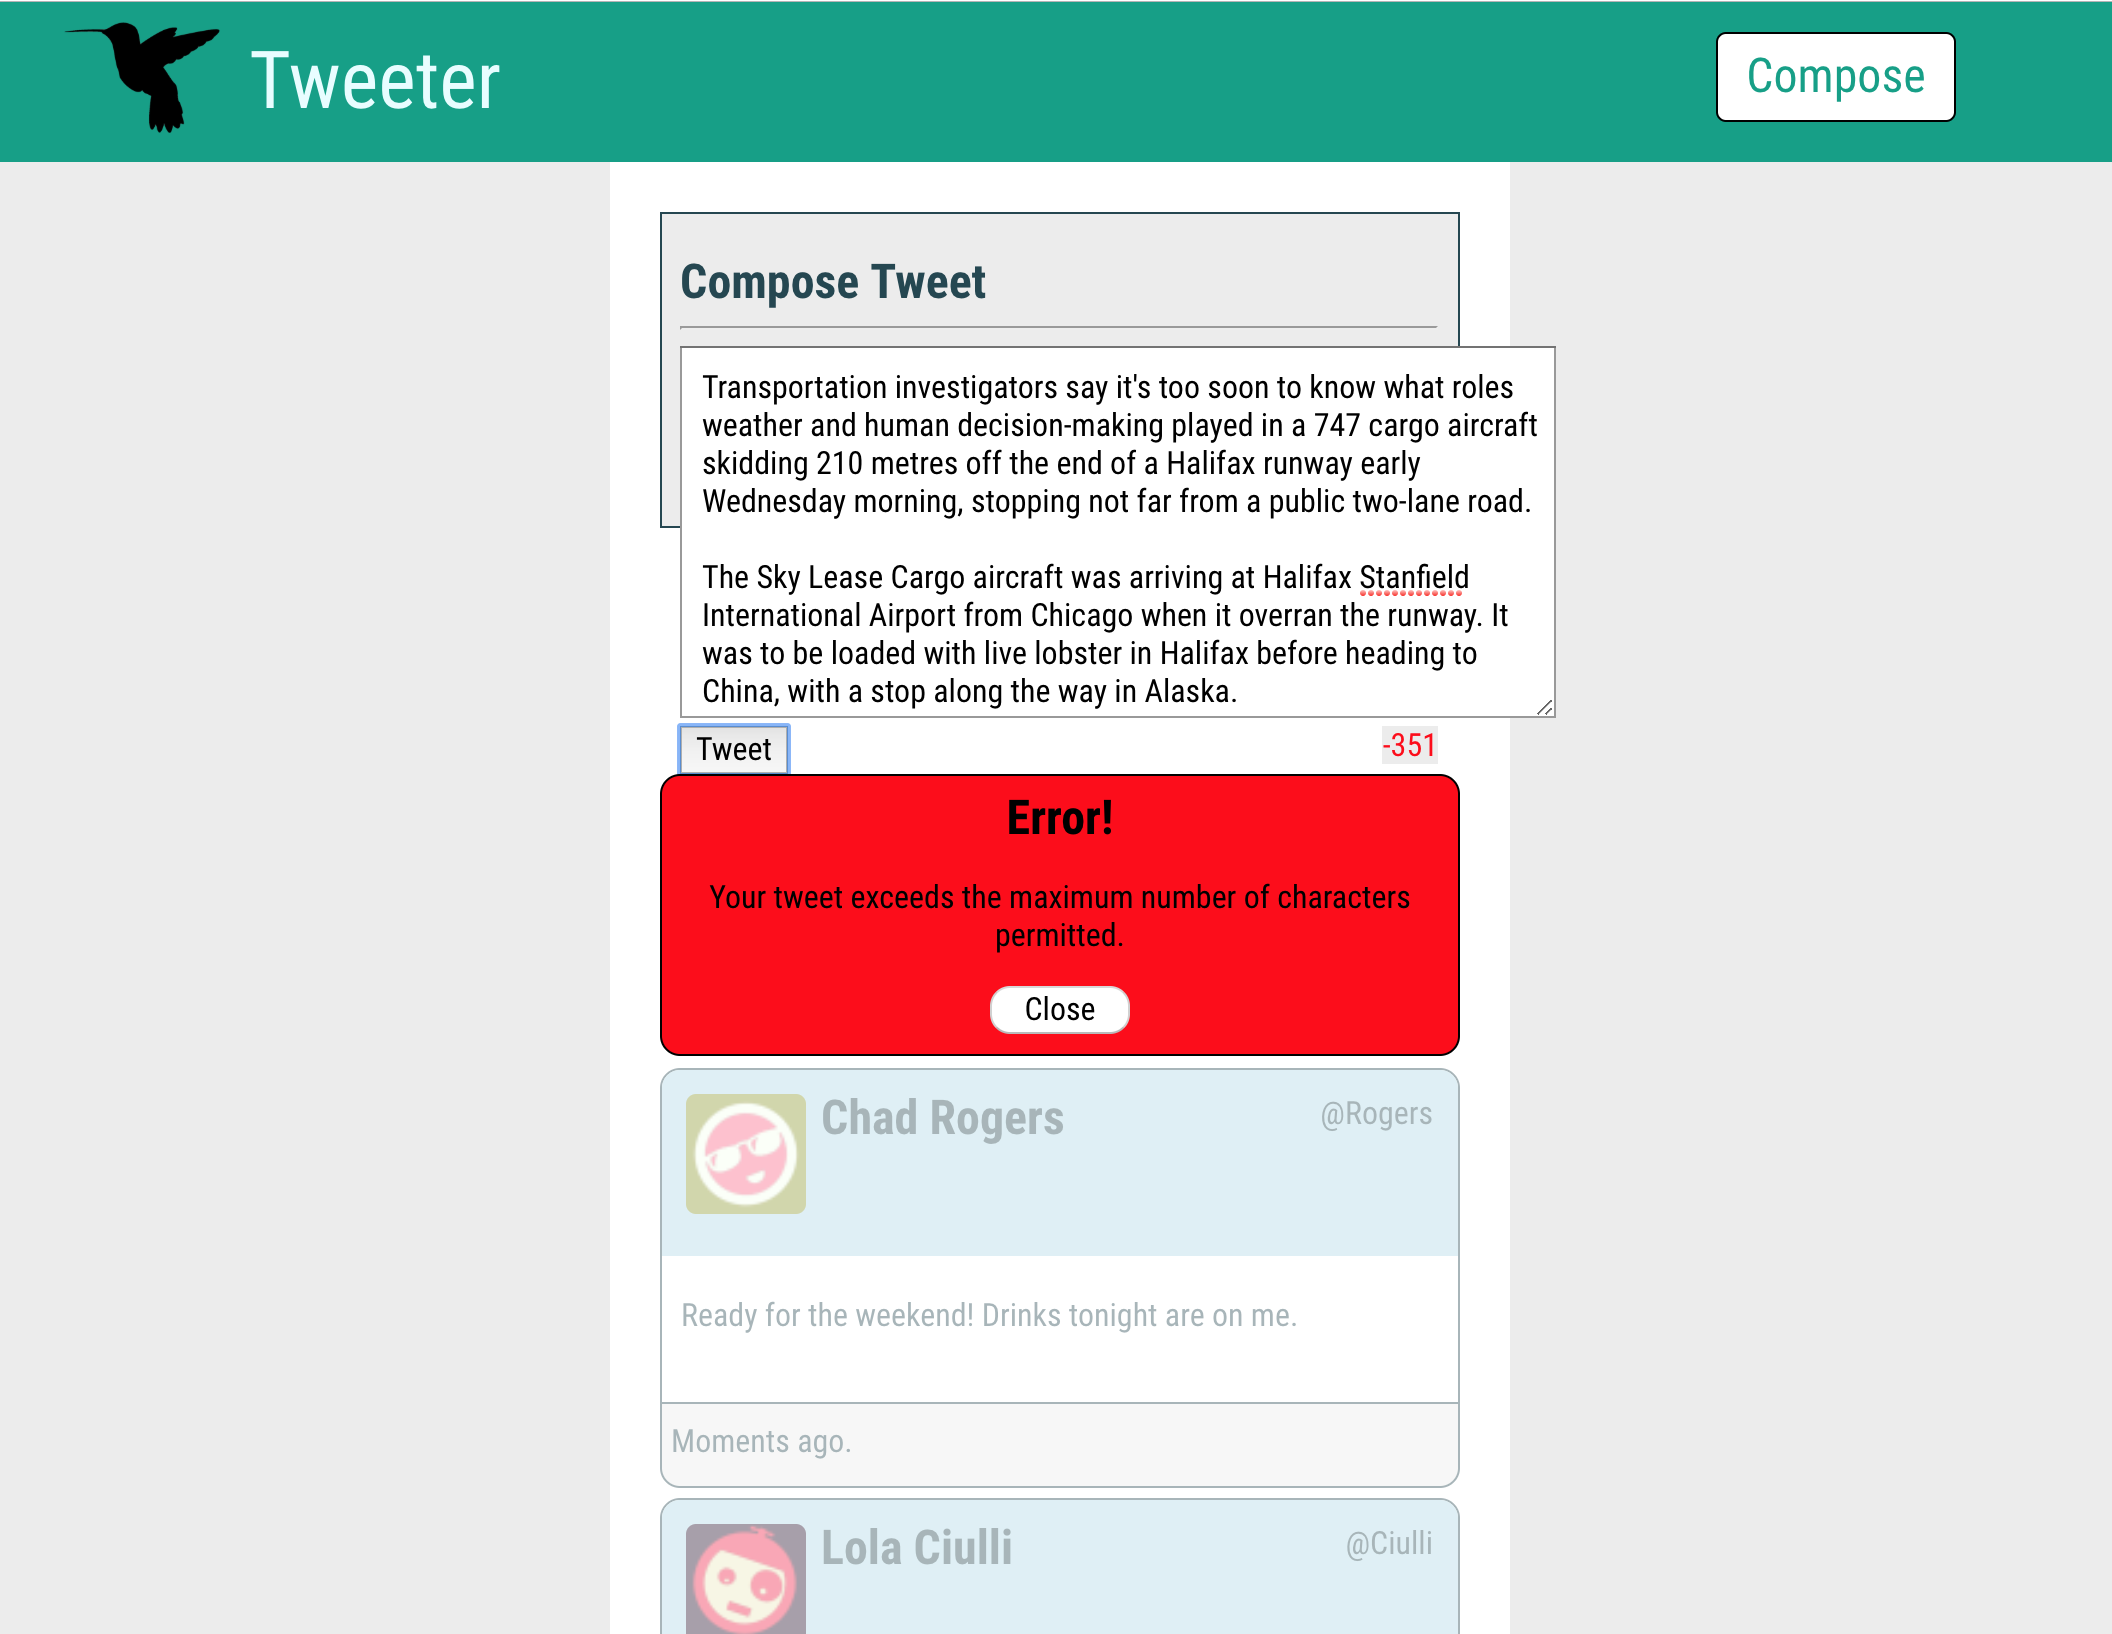
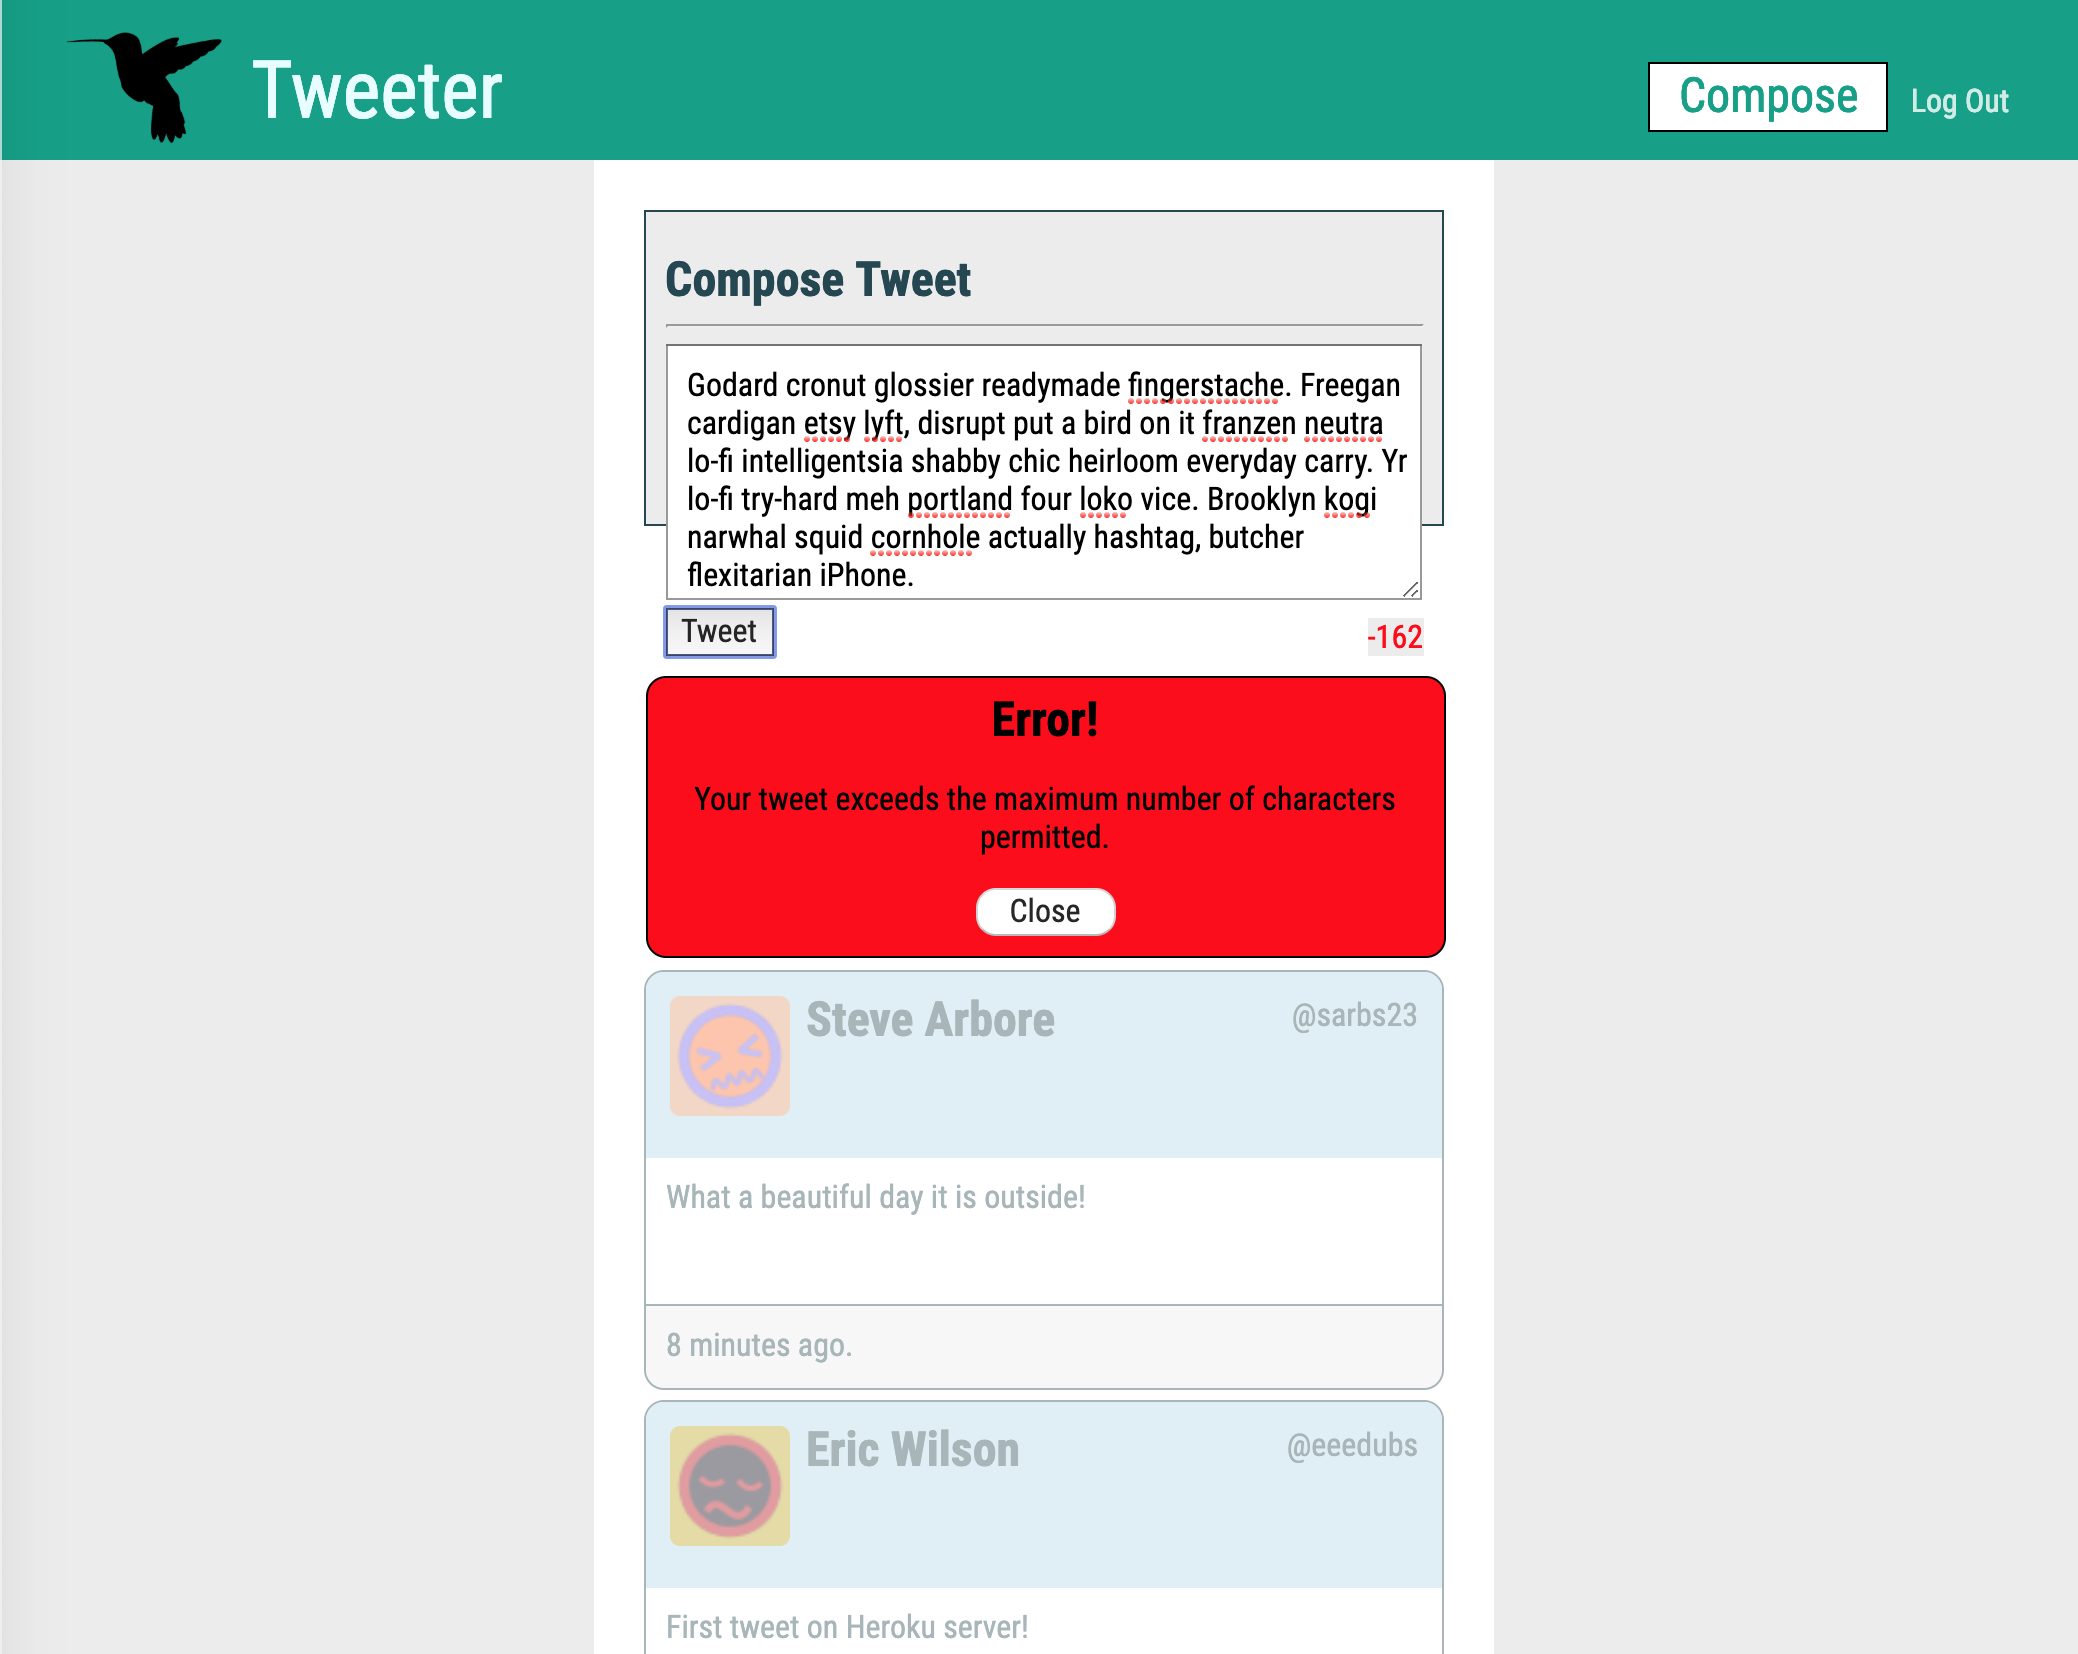
Updates to README: new screenshots

diff --git a/public/scripts/app.js b/public/scripts/app.js
@@ -120,7 +120,9 @@ $(document).ready(function() {
                     $(this).css("color", "#3b5998");
                 }
             })
-        } else {
+        } else if (!loggedInUserID){
+            alert("You must be logged in to 'like' tweets!");
+        } else if (loggedInUserID === userWhoCreatedTweetID){
             alert("You cannot like your own tweet!");
         }
     })

diff --git a/README.md b/README.md
@@ -4,23 +4,27 @@ Tweeter is a simple, single-page Twitter clone built with HTML, CSS, JS, jQuery 
 
 ## Final Project
 
-!["Screenshot of the landing page for Tweeter: Shows the navigation bar, an empty page without tweets, and a compose button in the top right corner."](https://github.com/eeedubs/tweeter/blob/master/docs/landing-page.png)
+!["Screenshot of the home page (logged out) for Tweeter: Shows the navigation bar with a compose button (toggles the visibility of the box to compose a new tweet when clicked), clickable links to sign up or log in, and the feed with sample tweets."](https://github.com/eeedubs/tweeter/blob/master/docs/home-feed-logged-out.png)
+!["Screenshot of the home page (logged in) for Tweeter: Shows the navigation bar with a compose button (toggles the visibility of the box to compose a new tweet when clicked), a clickable link for logging out, and the feed with sample tweets."](https://github.com/eeedubs/tweeter/blob/master/docs/home-feed-logged-out.png)
 !["Screenshot of a Tweeter page with the error message for too many characters."](https://github.com/eeedubs/tweeter/blob/master/docs/error-message.png)
-!["Screenshot of the Tweeter landing page with the "compose tweet" box in view."](https://github.com/eeedubs/tweeter/blob/master/docs/compose-page.png)
-!["Screenshot of a sample feed within Tweeter. Shows the user's name, handle, comment, and avatar, and shows how long ago they tweeted. For users that are selected (in the cursor's focus), the tweet also shows the social buttons 'like', 'repost', and 'flag'."](https://github.com/eeedubs/tweeter/blob/master/docs/sample-tweet.png)
+!["Screenshot of the Tweeter sign-up page."](https://github.com/eeedubs/tweeter/blob/master/docs/compose-page.png)
 
 ## Dependencies
 
-- body-parser
-- chance
-- express
-- md5
+- Bcrypt
+- Body-parser
+- Chance
+- Dotenv
+- Express
+- MD5
 - MongoDB
 - Node.js
+- Node-sass
+- UUID
 
 ## Dev Dependencies
 
-- nodemon
+- Nodemon
 
 ## Getting Started
 
@@ -28,3 +32,7 @@ Tweeter is a simple, single-page Twitter clone built with HTML, CSS, JS, jQuery 
 2. Install dependencies using the `npm install` command.
 3. Start the web server using the `npm run local` command. The app will be served at <http://localhost:8080/>.
 4. Go to <http://localhost:8080/> in your browser.
+
+## Heroku Server
+
+- This application is served at https://eeedubs-tweeter.herokuapp.com/. 
